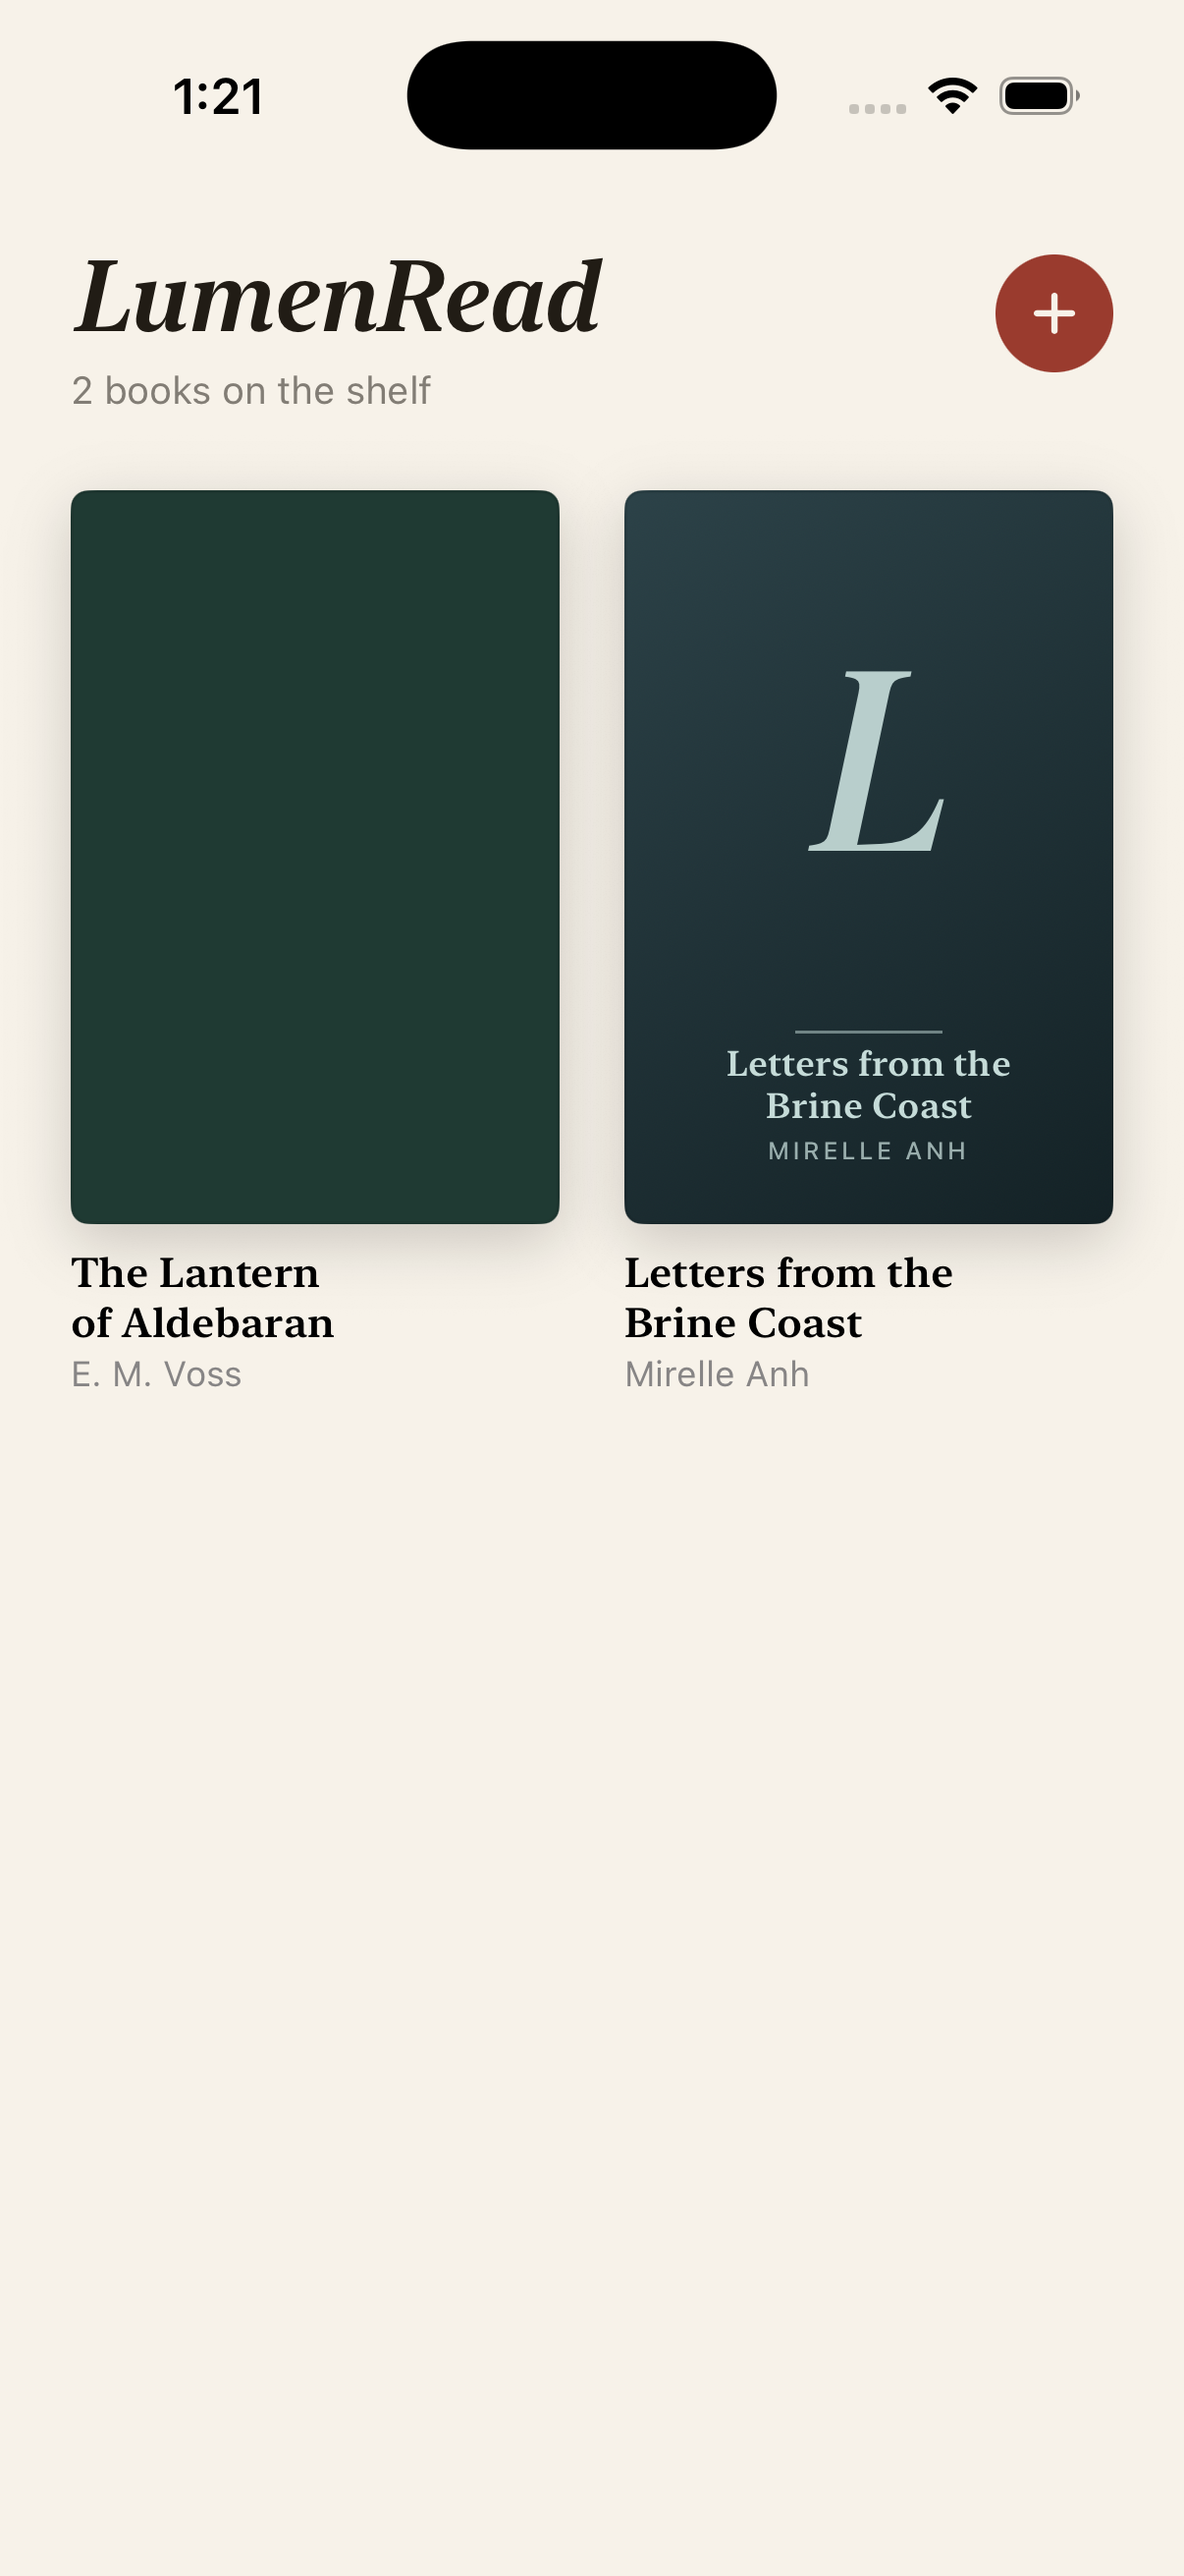
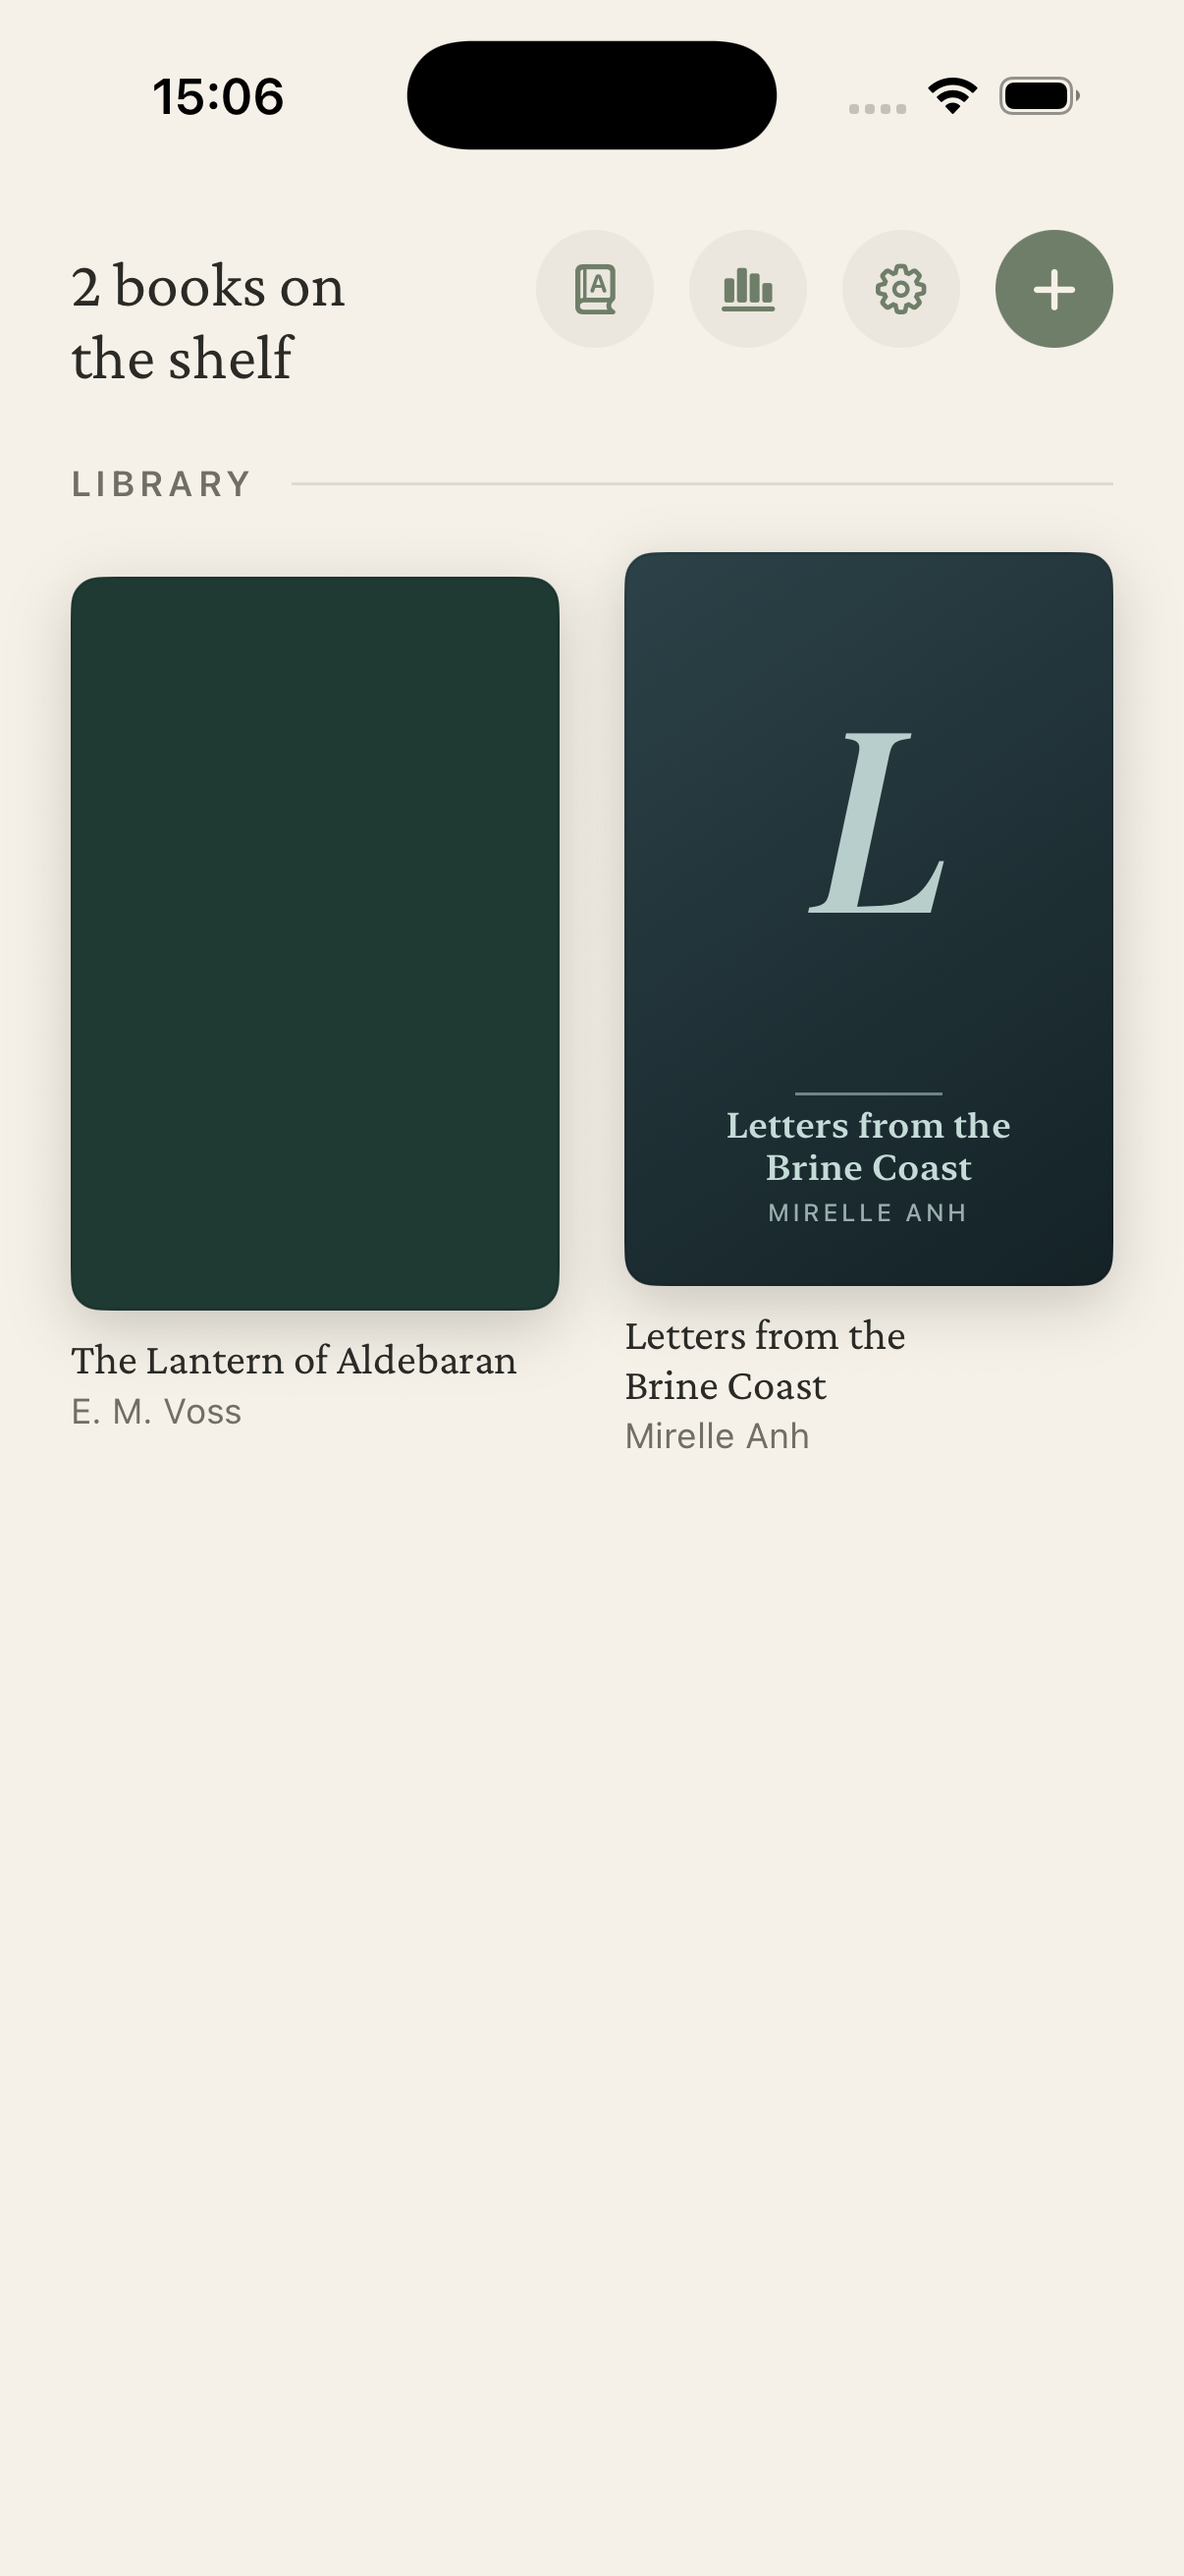
docs: redesign README with fresh 3.0 screenshots
Rewrite the README around the editorial design system and the 3.0
feature set (localization, language onboarding, settings, tabbed
appearance panel). Replace the pre-redesign screenshots with fresh
captures of the current UI (library EN/HU, Light/Dark reader, appearance
panel, language picker), fix stale test counts and launch-hook list,
and drop the reference to the removed make_icon.swift.

diff --git a/README.md b/README.md
@@ -1,116 +1,116 @@
+<div align="center">
+
+<img src="NativRead/Resources/Assets.xcassets/AppIcon.appiconset/icon-1024.png" width="120" alt="NativRead app icon" />
+
 # NativRead
 
-NativRead (formerly LumenRead): a fast, beautiful EPUB reader for
-iPhone, built to the standard of the best readers on the market
-(Apple Books, Kindle, Readest).
+**A calm, editorial EPUB reader for iPhone — built to the standard of Apple Books and Kindle, with real page-level pagination, an in-app language switch, and a typeface you'll actually want to read in.**
 
-| Library | Paper | Dusk | Typography |
-|---|---|---|---|
-| ![Library](docs/screenshots/library.png) | ![Paper](docs/screenshots/reader-paper.png) | ![Dusk](docs/screenshots/reader-dusk.png) | ![Panel](docs/screenshots/typography-panel.png) |
+![Platform](https://img.shields.io/badge/platform-iOS%2017%2B-1d3a2f?style=flat-square)
+![Swift](https://img.shields.io/badge/Swift-5.9-d6613c?style=flat-square)
+![UI](https://img.shields.io/badge/SwiftUI-%40Observable-1d3a2f?style=flat-square)
+![Tests](https://img.shields.io/badge/tests-192%20passing-5a7d5a?style=flat-square)
+![Languages](https://img.shields.io/badge/languages-English%20%C2%B7%20Magyar-5a7d5a?style=flat-square)
 
-## What's new versus v1
+</div>
 
-The old app paginated **per chapter** (one swipe = one whole chapter).
-The new reading engine paginates **per page** the way real readers do:
-chapters are laid out in viewport-wide CSS columns inside a WKWebView
-and a small JS engine (`window.lumen`) turns pages with
-compositor-friendly `translate3d` animations, reporting state back to
-Swift over a message bridge.
+<div align="center">
 
-- **Page-level pagination** with tap zones (left/right edge), swipe,
-  and an animated page turn; seamless across chapter boundaries
-- **Whole-book progress** weighted by chapter size, with a scrubber to
-  jump anywhere in the book (`Book.bookFraction` / `Book.position`
-  are exact inverses, property-tested)
-- **Four reading themes** — Paper, Sepia, Dusk, Ink (true black) —
-  and the chrome adopts the page colour so the whole screen reads as
-  one sheet
-- **Typography control**: New York / Georgia / Palatino / Charter /
-  San Francisco, font size 13–26, line height, margins, justification
-- **Full-text search** across the whole book with snippets; tapping a
-  result jumps to the page and highlights the match
-- **Bookmarks** with automatic text snippets, listed next to the TOC
-- **TOC** from the EPUB 3 nav document with EPUB 2 NCX fallback and a
-  synthesised fallback for books that ship neither
-- **Library** with real cover extraction (EPUB 3 `cover-image`,
-  EPUB 2 `meta name="cover"`, heuristic fallback) and deterministic
-  generated covers for books without art
-- **Robust EPUB parsing**: container → OPF → manifest/spine/metadata,
-  percent-encoded hrefs, fragment hrefs, failed imports roll back
+| Library | Reader · Light | Reader · Dark |
+|:---:|:---:|:---:|
+| ![Library](docs/screenshots/library.png) | ![Reader Light](docs/screenshots/reader-light.png) | ![Reader Dark](docs/screenshots/reader-dark.png) |
+| **Appearance panel** | **Language onboarding** | **Localized (Magyar)** |
+| ![Appearance panel](docs/screenshots/appearance-panel.png) | ![Onboarding](docs/screenshots/onboarding-language.png) | ![Hungarian library](docs/screenshots/library-hu.png) |
 
-## NativRead additions on top of LumenRead 2.0
+</div>
 
-Feature choices driven by market research (Apple Books / Kindle /
-KyBook / Readest user feedback):
+---
 
-- **Eye comfort**: warm-light slider (amber shift on any theme, in
-  page and chrome alike), match-system-appearance mode with separate
-  light/dark theme slots, and an in-app brightness slider
-- **Reading flows**: paged (default) or continuous vertical scroll;
-  page-turn animation choice — slide, fade, or instant (e-ink style)
-- **Selection tools**: native text selection with the system edit menu
-  — Copy, Look Up (dictionary), Translate (Apple on-device) — plus a
-  custom **Highlight** action
-- **Persistent highlights** anchored by text + occurrence (survive
-  font, margin and flow changes), listed in the contents sheet next to
-  TOC and bookmarks
+## Highlights
+
+### 🌍 Read in your language
+Full **English** and **Magyar (Hungarian)** interface localization. The language is picked at first launch and applied everywhere — every `Text` follows your choice live, not just number and date formatting. A separate **dictionary (Define) language** lets the EN→HU dictionary back up Hungarian reading while the UI stays in whatever language you prefer.
+
+### 📖 Real page-level reading
+Chapters are laid out in viewport-wide CSS columns inside a `WKWebView`, and a small JS engine turns pages with compositor-friendly `translate3d` animations, reporting state back to Swift over a message bridge. Tap zones, swipe, an animated page turn, and seamless chapter boundaries — the way real readers work, not one-swipe-per-chapter.
+
+- **Whole-book progress** weighted by chapter size, with a scrubber to jump anywhere (`Book.bookFraction` / `Book.position` are exact inverses, property-tested)
+- **Reading flows**: paged (default) or continuous vertical scroll; page-turn animation choice — slide, fade, or instant (e-ink style)
+- **Full-text search** across the whole book with snippets; tap a result to jump and highlight the match
+- **Persistent highlights** anchored by text + occurrence (survive font, margin, and flow changes), plus bookmarks and TOC in one contents sheet
+
+### 🎨 An editorial design system
+- **Tabbed appearance panel** — Theme / Text / Layout, calm and uncrowded
+- **Four reading atmospheres** — Light, Sepia, Dusk, Dark (true black) — and the chrome adopts the page colour so the whole screen reads as one sheet
+- **Charter** serif body type with New York / Georgia / Palatino / San Francisco alternates; size 13–26, line height, margins, justification
+- **App-wide appearance** — Light / Dark / System, with separate light/dark reader theme slots
+- **Eye comfort** — warm-light slider (amber shift on any theme, page and chrome alike) and an in-app brightness slider
+
+### 📚 Robust EPUB handling
+Container → OPF → manifest/spine/metadata parsing with percent-encoded and fragment hrefs; EPUB 3 nav with EPUB 2 NCX fallback and a synthesised TOC for books with neither. Real cover extraction (EPUB 3 `cover-image`, EPUB 2 `meta name="cover"`, heuristic fallback) with deterministic generated covers for books without art. Failed imports roll back.
+
+---
 
 ## Architecture
 
 ```
 NativRead/
-├── NativReadApp.swift            — entry, launch-argument test hooks
-├── Models/                       — Book, ReadingProgress, Bookmark,
-│                                   ReaderSettings, themes (pure)
-├── EPUB/                         — EPUBParser + XML delegates (pure)
+├── NativReadApp.swift          — entry point, launch-argument test hooks
+├── DesignSystem/               — BrandPalette, Spacing, Typography tokens (pure)
+├── Models/                     — Book, ReadingProgress, Bookmark,
+│                                 ReaderSettings, themes (pure value types)
+├── EPUB/                       — EPUBParser + XML delegates (pure)
 ├── Services/
-│   ├── LibraryStore.swift        — import/unzip/persist (@Observable)
-│   ├── SettingsStore.swift       — typography persistence
-│   ├── ReaderStyle.swift         — CSS generator (pure, tested)
-│   ├── ReaderScripts.swift       — JS pagination engine
-│   ├── ReaderController.swift    — WKWebView bridge
-│   └── SearchService.swift       — whole-book search (pure, tested)
+│   ├── LibraryStore.swift      — import / unzip / persist (@Observable)
+│   ├── SettingsStore.swift     — appearance & typography persistence
+│   ├── LocalizationStore.swift — app + dictionary language, persisted
+│   ├── BundleLanguage.swift    — main-bundle .lproj routing for live switch
+│   ├── DictionaryProvider.swift— bundled bilingual dictionaries (WordNet, EN→HU)
+│   ├── ReaderStyle.swift       — CSS generator (pure, tested)
+│   ├── ReaderScripts.swift     — JS pagination engine
+│   ├── ReaderController.swift  — WKWebView bridge
+│   └── SearchService.swift     — whole-book search (pure, tested)
 └── Views/
-    ├── Library/                  — shelf, covers, import
-    └── Reader/                   — reader, chrome, panels, sheets
+    ├── Onboarding/             — splash + language selection
+    ├── Library/                — shelf, covers, import
+    ├── Settings/               — appearance, language, dictionary
+    └── Reader/                 — reader, chrome, tabbed appearance panel
 ```
 
-## Setup
+The whole app is value-types-first: models and EPUB parsing are pure and unit-tested; stores are `@Observable`; side effects live behind a thin service layer.
+
+---
+
+## Getting started
 
 ```bash
 brew install xcodegen
-cd NativRead
 xcodegen generate
-open NativRead.xcodeproj   # Cmd+R on a simulator or device
+open NativRead.xcodeproj      # ⌘R on a simulator or device
 ```
 
-Dependency: ZIPFoundation (resolved by SPM on first build).
+Requires Xcode 16+ and iOS 17. Dependency: ZIPFoundation (resolved by SPM on first build).
 
 ## Testing
 
 ```bash
-xcodebuild -project NativRead.xcodeproj -scheme NativRead \
-  -destination 'platform=iOS Simulator,name=iPhone 17 Pro' test
+xcodebuild test -project NativRead.xcodeproj -scheme NativRead \
+  -destination 'platform=iOS Simulator,name=iPhone 17 Pro'
 ```
 
-- **46 unit tests**: EPUB 2/3 parsing, TOC (nav + NCX), cover
-  detection, error paths, progress math round-trips, settings
-  persistence and legacy-settings migration, CSS generation (paged +
-  scroll), warmth colour math, highlight locators, search
-- **9 UI tests** (`ReaderJourneyUITests`): seeded shelf, page turn +
-  progress restore, theme switching, flow/transition pickers, scroll
-  journey, selection highlighting + persistence, TOC navigation,
-  whole-book search, bookmarking
+- **173 unit tests** — EPUB 2/3 parsing, TOC (nav + NCX), cover detection, error paths, progress-math round-trips, settings persistence + migration, CSS generation (paged + scroll), warmth colour math, highlight locators, search, and the full localization layer (language defaults, persistence, locale/bundle resolution, dictionary mapping)
+- **19 UI tests** — language onboarding, splash skip, seeded shelf, page turn + progress restore, theme switching across the tabbed panel, flow/transition pickers, scroll journey, highlight persistence, TOC navigation, whole-book search, bookmarking, vocabulary
 
-Test hooks (launch arguments): `-resetLibrary`, `-resetSettings`,
-`-seedSampleBook`, `-autoOpenFirstBook`,
-`-forceTheme <paper|sepia|dusk|ink>`, `-forceFlow <paged|scroll>`,
-`-forceTransition <slide|fade|instant>`, `-showTypographyPanel`.
+**Launch-argument hooks** (UI tests + screenshot automation):
+`-resetLibrary`, `-resetSettings`, `-resetLanguage`, `-seedSampleBook`, `-seedProgress`,
+`-seedSampleVocabulary`, `-skipOnboarding`, `-forceOnboarding`, `-onboardingHold`,
+`-autoOpenFirstBook`, `-forceTheme <paper|sepia|dusk|ink>`, `-forceFlow <paged|scroll>`,
+`-forceTransition <slide|fade|instant>`, `-forceLanguage <en|hu>`,
+`-showTypographyPanel`, `-appearanceTab <theme|text|layout>`.
 
-The sample books are generated by `scripts/make_sample_epub.py`;
-the app icon by `swift scripts/make_icon.swift <out.png>`.
+Sample books are generated by `scripts/make_sample_epub.py`.
 
 ## Adding books
 
 - **Files app / Share sheet** — open any `.epub` with NativRead
-- **In-app** — the + button on the shelf (multi-select supported)
+- **In-app** — the **+** button on the shelf (multi-select supported)
